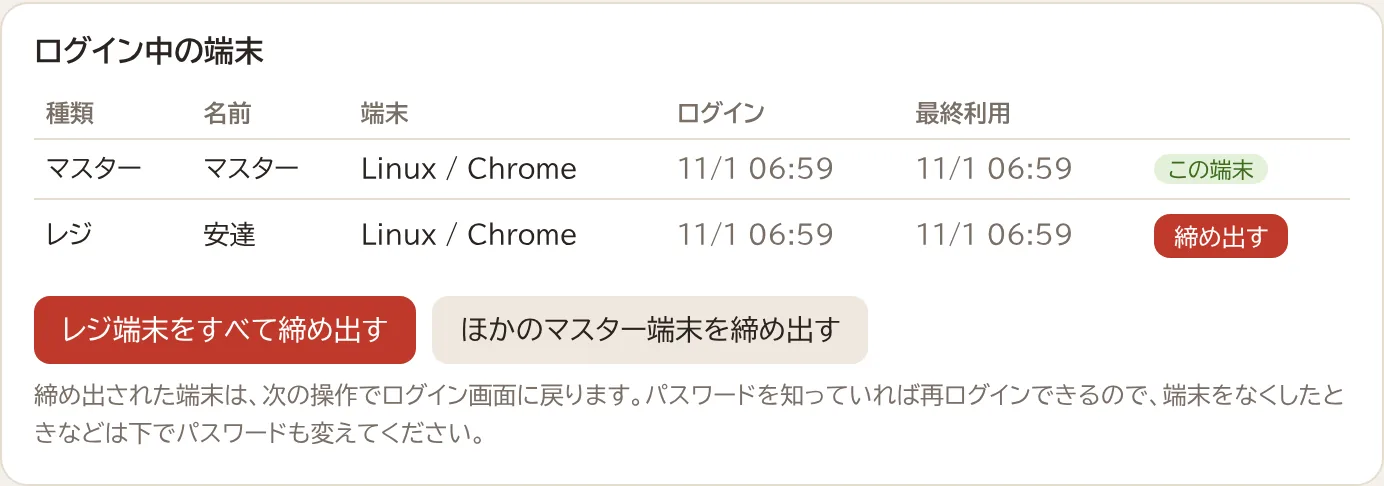
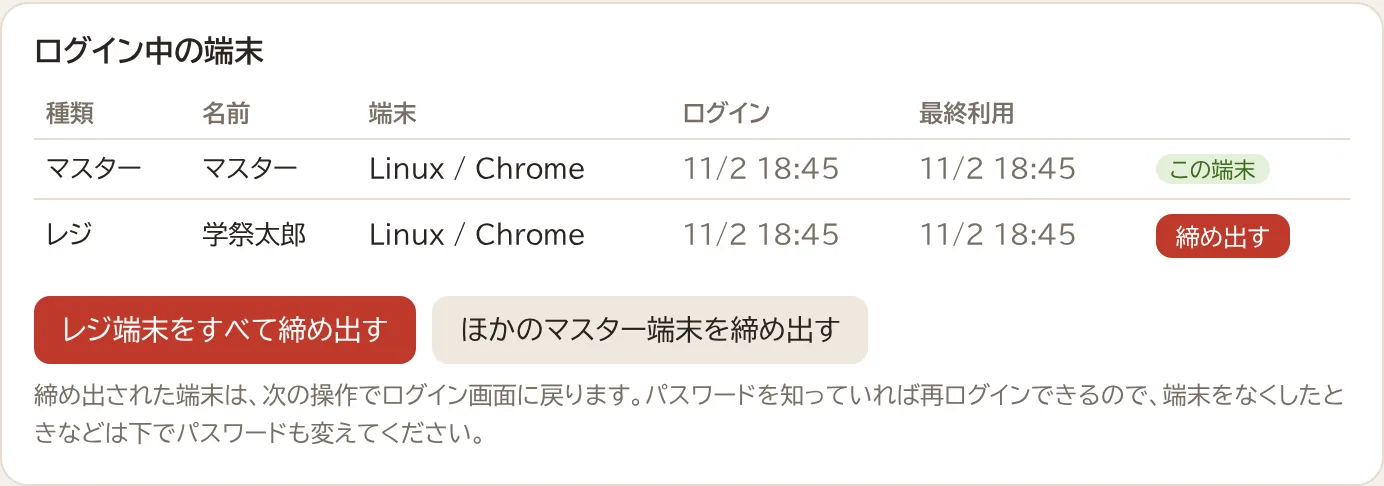
説明と画像の担当者名を「学祭太郎」に差し替え
- レジのログイン欄の例を「学祭太郎」に
- 名前が写っていたヘルプ画像（ログイン画面・最近の会計・ログイン中の端末）を撮り直し
- ヘルプ画像を差し替えたので Service Worker の版を更新

Claude-Session: https://claude.ai/code/session_01UZ9qf5JxoP9bu9V8PunLta

diff --git a/public/admin.html b/public/admin.html
@@ -260,7 +260,7 @@
 <div id="login" class="card hidden">
   <h2>団子レジ</h2>
   <div class="label">担当者名とパスワードを入力してください</div>
-  <input id="staffName" type="text" autocomplete="name" maxlength="30" placeholder="担当者名（例: 安達）">
+  <input id="staffName" type="text" autocomplete="name" maxlength="30" placeholder="担当者名（例: 学祭太郎）">
   <input id="pw" type="password" autocomplete="current-password" placeholder="パスワード">
   <button id="loginBtn">ログイン</button>
   <div class="login-off hidden" id="loginOff">オフラインのためログインできません。電波のある場所でログインしてください。</div>
@@ -464,7 +464,7 @@
 
   <details>
     <summary>記録した会計を間違えた</summary>
-    <figure class="narrow"><img src="/help/reg-hist.webp" width="370" height="368" loading="lazy" alt="最近の会計の一覧。各行に会計番号と時刻、内容と味、金額、取消ボタン。キッチンで作り終わった会計には「できた」の印。取消済みの行は取り消し線が引かれ、戻すボタンになっている"></figure>
+    <figure class="narrow"><img src="/help/reg-hist.webp" width="370" height="382" loading="lazy" alt="最近の会計の一覧。各行に会計番号と時刻、内容と味、金額、取消ボタン。キッチンで作り終わった会計には「できた」の印。取消済みの行は取り消し線が引かれ、戻すボタンになっている"></figure>
     <p>「最近の会計」の一覧で、その会計の「取消」を押します。取り消した会計には取り消し線が引かれ、売上と本数から外れます。キッチン画面でも赤い線で「取消」と表示されるので、作らずに済みます。正しい内容（正しい味）で、もう一度会計し直してください。</p>
     <p>取り消しを間違えたときは、同じ行の「戻す」で元に戻せます。取消と戻すは、誰がいつしたかが記録されます。電波がないときも取り消せます（あとで自動で送信されます）。</p>
     <p>ここに出るのは最新の5件です。それより前の会計は、下の「すべての会計を見る」から探して取り消してください（こちらは電波が必要です）。</p>

diff --git a/public/sw.js b/public/sw.js
@@ -6,7 +6,7 @@
  * - ネットワーク優先：つながれば最新を表示してキャッシュも更新、つながらない（または遅い）ときだけキャッシュを使う。
  * - アプリを更新したら VERSION を変える。新しい版が入ると古いキャッシュは消える。
  */
-const VERSION = '2026-11-02-3';
+const VERSION = '2026-11-02-4';
 const CACHE = 'mogiten-register-' + VERSION;
 const FONT_CACHE = 'mogiten-fonts-v1';      // Web フォント（版をまたいで使い回す）
 const SHELL = ['/admin', '/pricing.js', '/help.css', '/help.js'];
